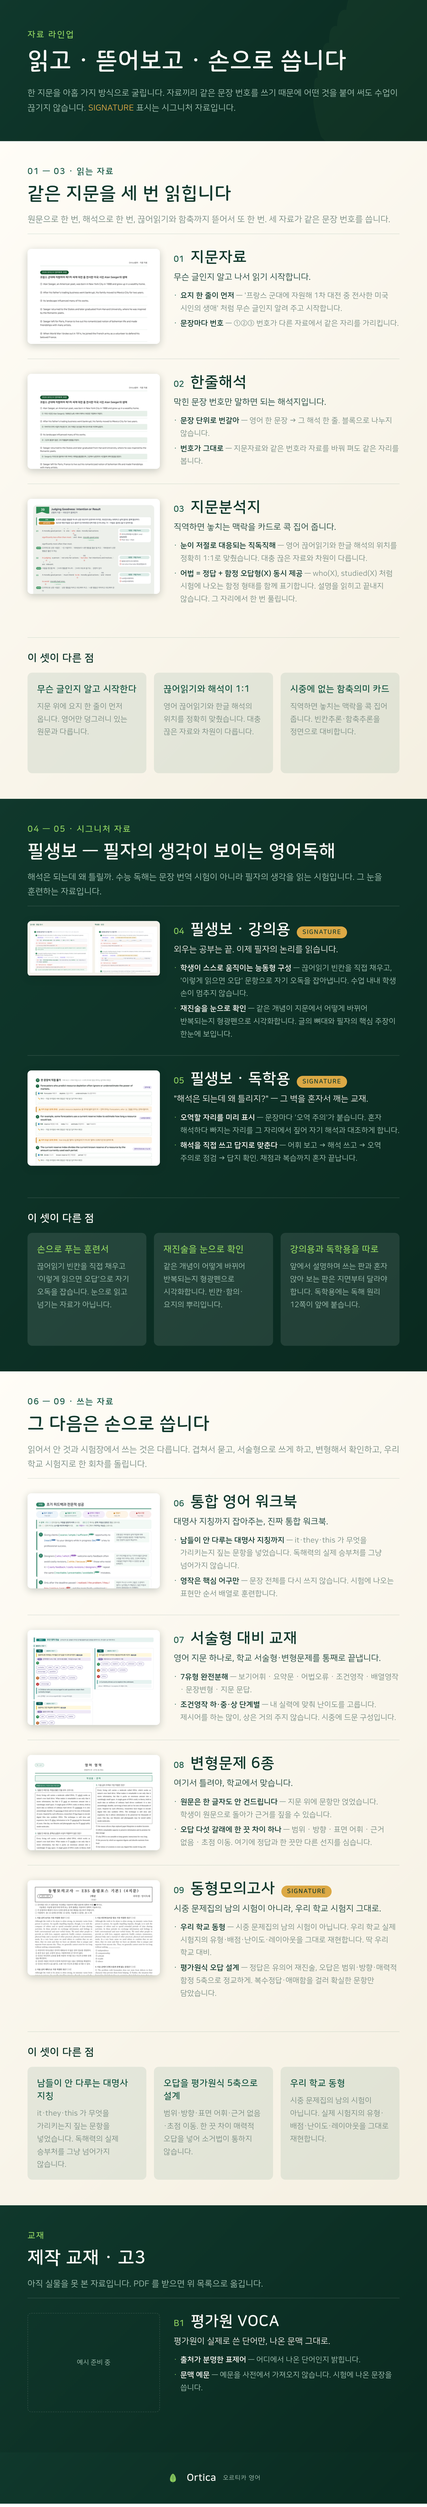
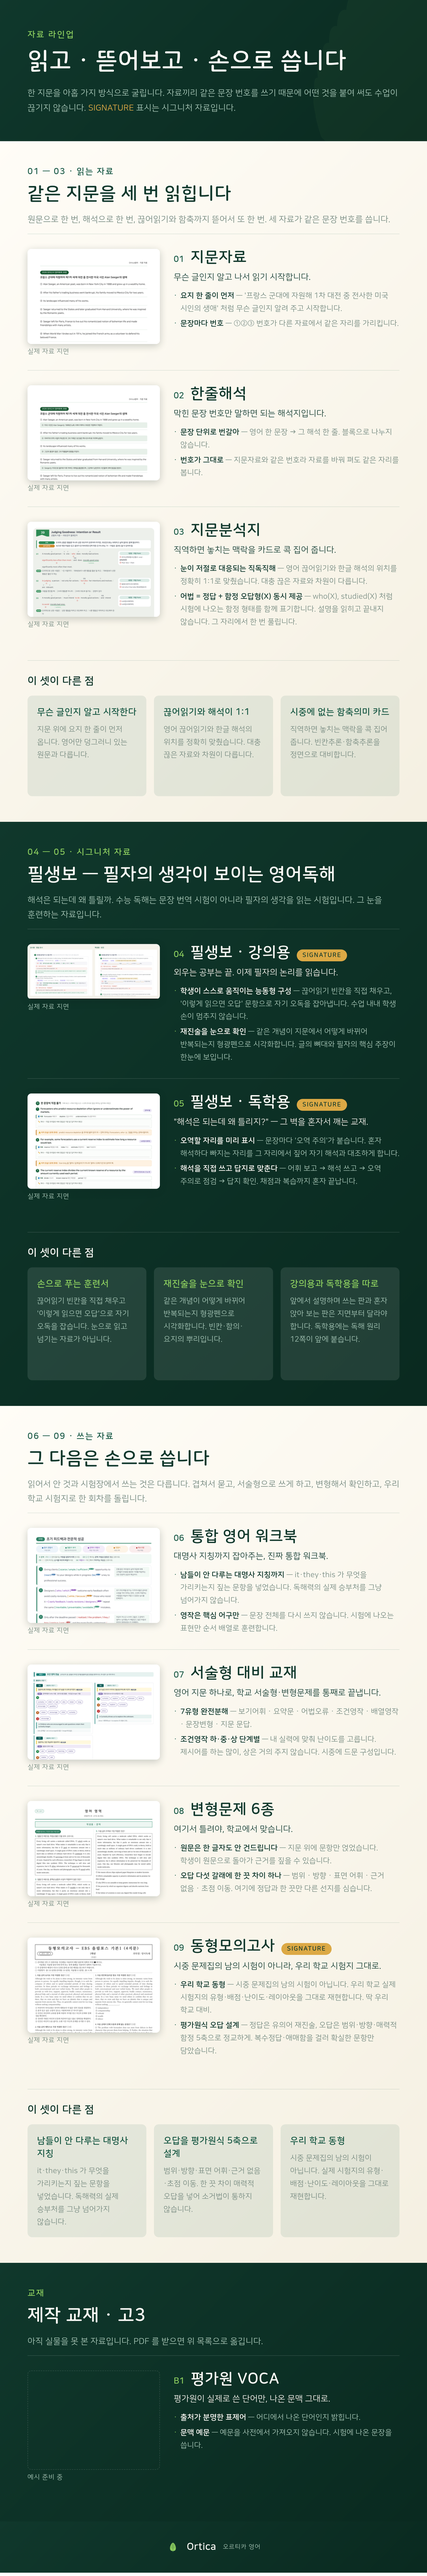
라인업 썸네일 아래에 무슨 그림인지 한 줄
작은 사진은 글자가 안 읽혀서 그냥 회색 덩어리로 보인다. '실제 자료 지면'
한 줄을 붙여 실물을 찍은 것임을 알린다. 예시가 아직 없는 자료는 점선 틀에
'예시 준비 중'.

Claude-Session: https://claude.ai/code/session_015BpsJgtaBR6xs1aCKnE4xw

diff --git a/brand/build.py b/brand/build.py
@@ -376,19 +376,21 @@ def lineup_rows(items, t: dict[str, str], u: float, thumb_w: int = 320,
     """자료 목록 줄. 왼쪽에 실물 썸네일, 오른쪽에 이름과 한 줄."""
     rows = []
     for it in items:
-        thumb = ""
+        thumb, caption = "", "예시 준비 중"
         if it.sample:
             name = shot_crop(it.sample, OUT / "thumbs" / f"t-{it.key}.png", thumb_w)
             if name:
                 thumb = (f'<img src="{(OUT / "thumbs" / name).as_uri()}" '
                          f'style="width:100%;display:block;border-radius:8px;'
                          f'box-shadow:0 4px 16px rgba(14,31,26,.22)">')
+                caption = "실제 자료 지면"
         if not thumb:
             thumb = (f'<div style="width:100%;aspect-ratio:4/3;border-radius:8px;'
-                     f'border:1px dashed {t["line"]};display:flex;align-items:center;'
-                     f'justify-content:center"><span class="sans" '
-                     f'style="font-size:{u * 1.6:.0f}px;color:{t["muted"]}">'
-                     f'예시 준비 중</span></div>')
+                     f'border:1px dashed {t["line"]}"></div>')
+        # 작은 사진은 글자가 안 읽히니 무슨 그림인지 한 줄로 알려 준다.
+        thumb += (f'<div class="sans" style="margin-top:{u * .9:.0f}px;'
+                  f'font-size:{u * 1.5:.0f}px;color:{t["muted"]};'
+                  f'letter-spacing:.04em">{caption}</div>')
 
         badge = ""
         if it.signature:
